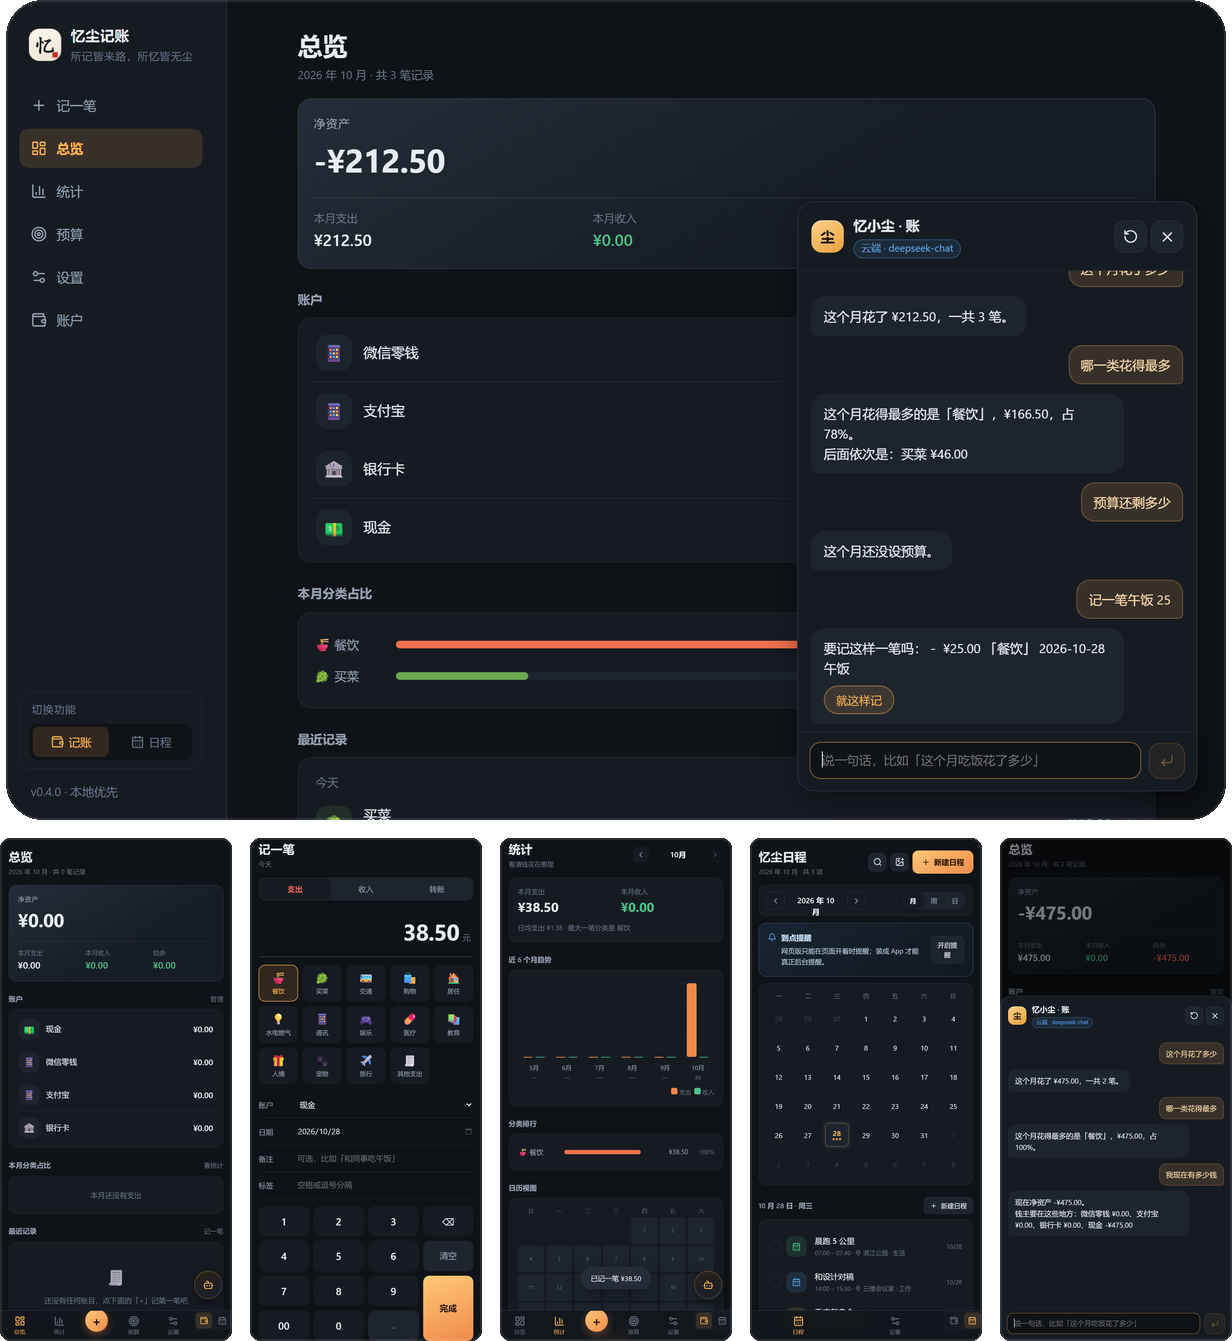
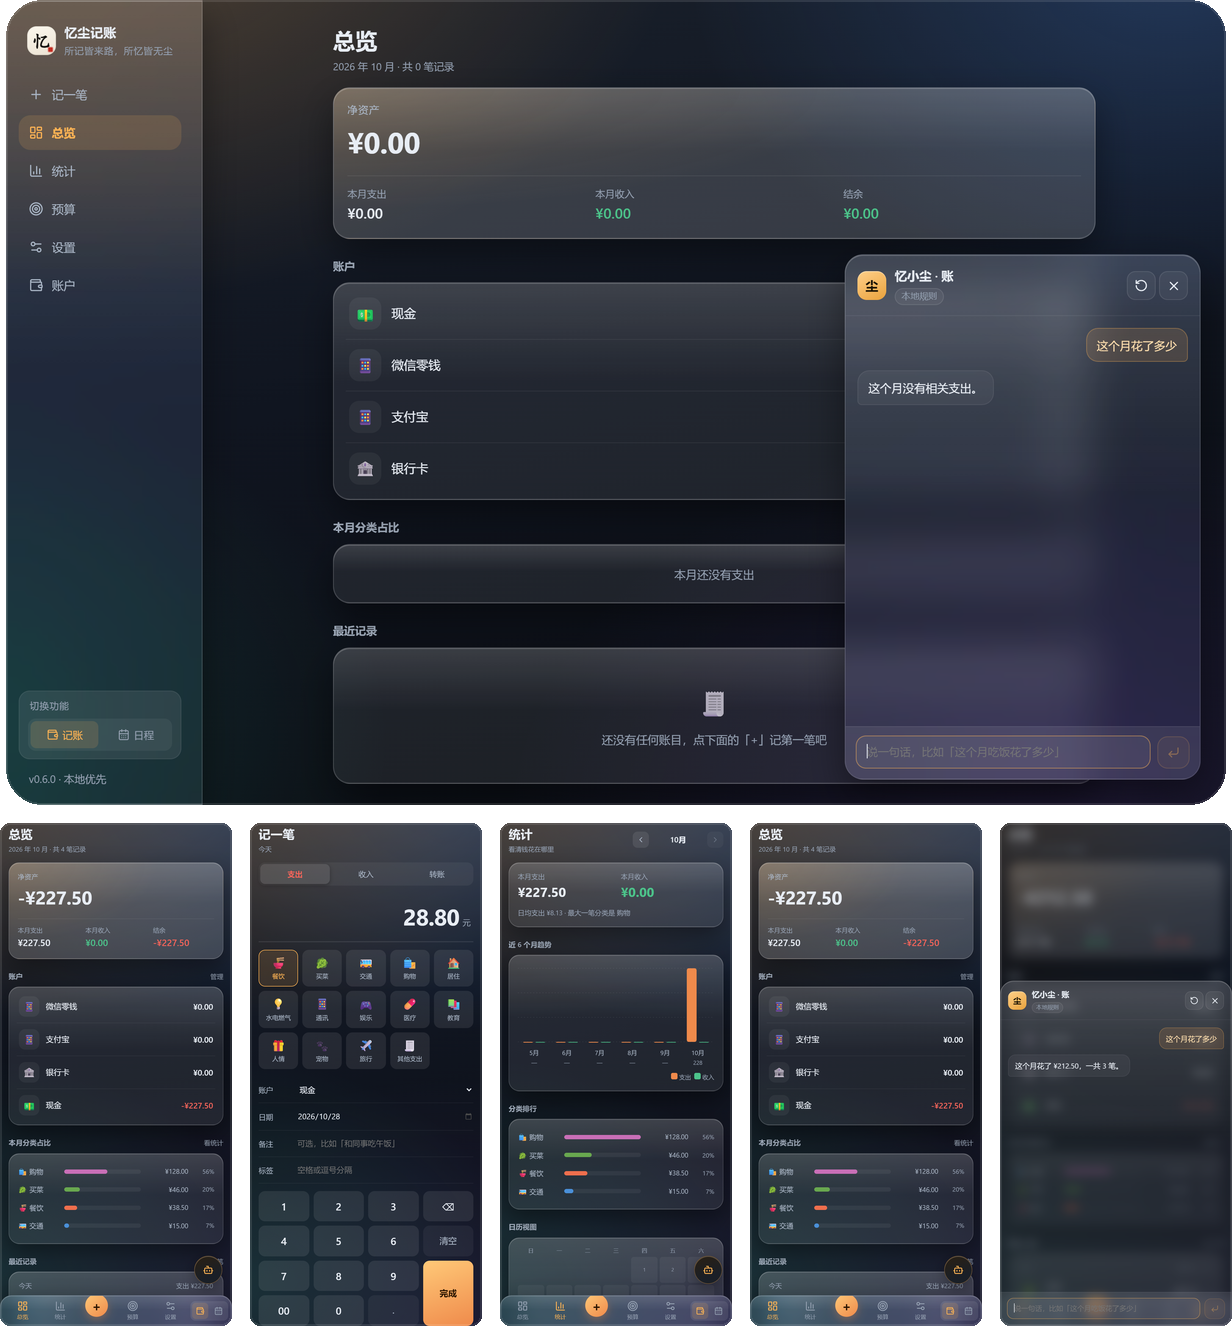
fix(ui): 玻璃弹层里的三处细节
- 导航条左右各留 6px，大圆角不再切掉首尾两个图标
- 忆小尘入口按钮居中，且面板打开时隐藏，避免从玻璃底下透出来
- 桌面端忆小尘改成真正的浮动卡片：遮罩不再铺满整屏做 6px 模糊
  （那会把整个账本糊掉），手机端遮罩改用 --scrim-soft，玻璃才有东西可折射

diff --git a/src/styles.css b/src/styles.css
@@ -60,6 +60,8 @@
 
   /* 遮罩、提示条、气泡这些散落的颜色，浅色下要整体换掉 */
   --scrim: rgba(0, 0, 0, 0.58);
+  /* 玻璃弹层用的浅遮罩：全黑会把玻璃压成一块黑玻璃 */
+  --scrim-soft: rgba(6, 9, 14, 0.34);
   --toast-bg: rgba(38, 45, 56, 0.96);
   --fab-bg: linear-gradient(160deg, #2a2013, #1a1f27 70%);
   --warn-text: #ffd9a8;
@@ -511,6 +513,11 @@ textarea {
   position: relative;
   z-index: 1;
   display: flex;
+  /*
+   * 左右各留 6px：导航条现在是大圆角的玻璃，贴着边的那两个图标
+   * （总览、功能切换钮）会被圆角的弧线切掉一角。留一点内边距就避开了。
+   */
+  padding: 0 6px;
 }
 
 .tab {
@@ -1657,6 +1664,12 @@ textarea {
   background: transparent;
   border: 0;
   flex: 0 0 auto;
+  /*
+   * 导航条高度由两侧的 .tab 撑起来（图标 + 文字 ≈ 56px），而这里只有
+   * 30px 高的两个图标。不居中就会贴着顶边，看起来像漏了一截。
+   */
+  display: flex;
+  align-items: center;
 }
 
 .mode-switch.compact .mode-switch-track {
@@ -2278,9 +2291,14 @@ select.input {
   position: fixed;
   inset: 0;
   z-index: 60;
-  background: var(--scrim);
-  backdrop-filter: blur(6px);
-  -webkit-backdrop-filter: blur(6px);
+  /*
+   * 这一层比通用遮罩浅得多（通用是 0.58）。
+   * 忆小尘的面板是玻璃，背后要是全黑，它就只是一块黑玻璃 —— 看起来跟
+   * 用户抱怨的「黑框」没区别。让页面的颜色透上来，玻璃才有东西可折射。
+   */
+  background: var(--scrim-soft);
+  backdrop-filter: blur(10px);
+  -webkit-backdrop-filter: blur(10px);
   display: flex;
   align-items: flex-end;
   justify-content: center;
@@ -2304,6 +2322,13 @@ select.input {
     justify-content: flex-end;
     padding: 0 30px 30px 0;
     background: transparent;
+    /*
+     * 桌面上忆小尘是右下角一张卡片，不是全屏抽屉。
+     * 遮罩铺满整屏时那层 blur(6px) 会把整个工作区糊掉 —— 用户只是想让
+     * 助手在旁边待着，账本还得看得清。这里必须把模糊关掉。
+     */
+    backdrop-filter: none;
+    -webkit-backdrop-filter: none;
     pointer-events: none;
   }
 

diff --git a/src/App.tsx b/src/App.tsx
@@ -50,7 +50,7 @@ function Shell() {
   const { ready, error } = useLedger();
   const { t } = useI18n();
   const { mode, setMode } = useMode();
-  const { show: showAssistant } = useAssistantUi();
+  const { open: assistantOpen, show: showAssistant } = useAssistantUi();
   const location = useLocation();
   const navigate = useNavigate();
   const isAdd = location.pathname.startsWith('/add') || location.pathname.startsWith('/edit');
@@ -204,7 +204,8 @@ function Shell() {
         </div>
       </main>
 
-      {showFab ? <AssistantFab onOpen={showAssistant} /> : null}
+      {/* 面板开着时把入口藏掉：面板是玻璃，按钮会在底下透出来 */}
+      {showFab && !assistantOpen ? <AssistantFab onOpen={showAssistant} /> : null}
 
       {!isAdd ? (
         <nav className="tabbar has-backdrop">
